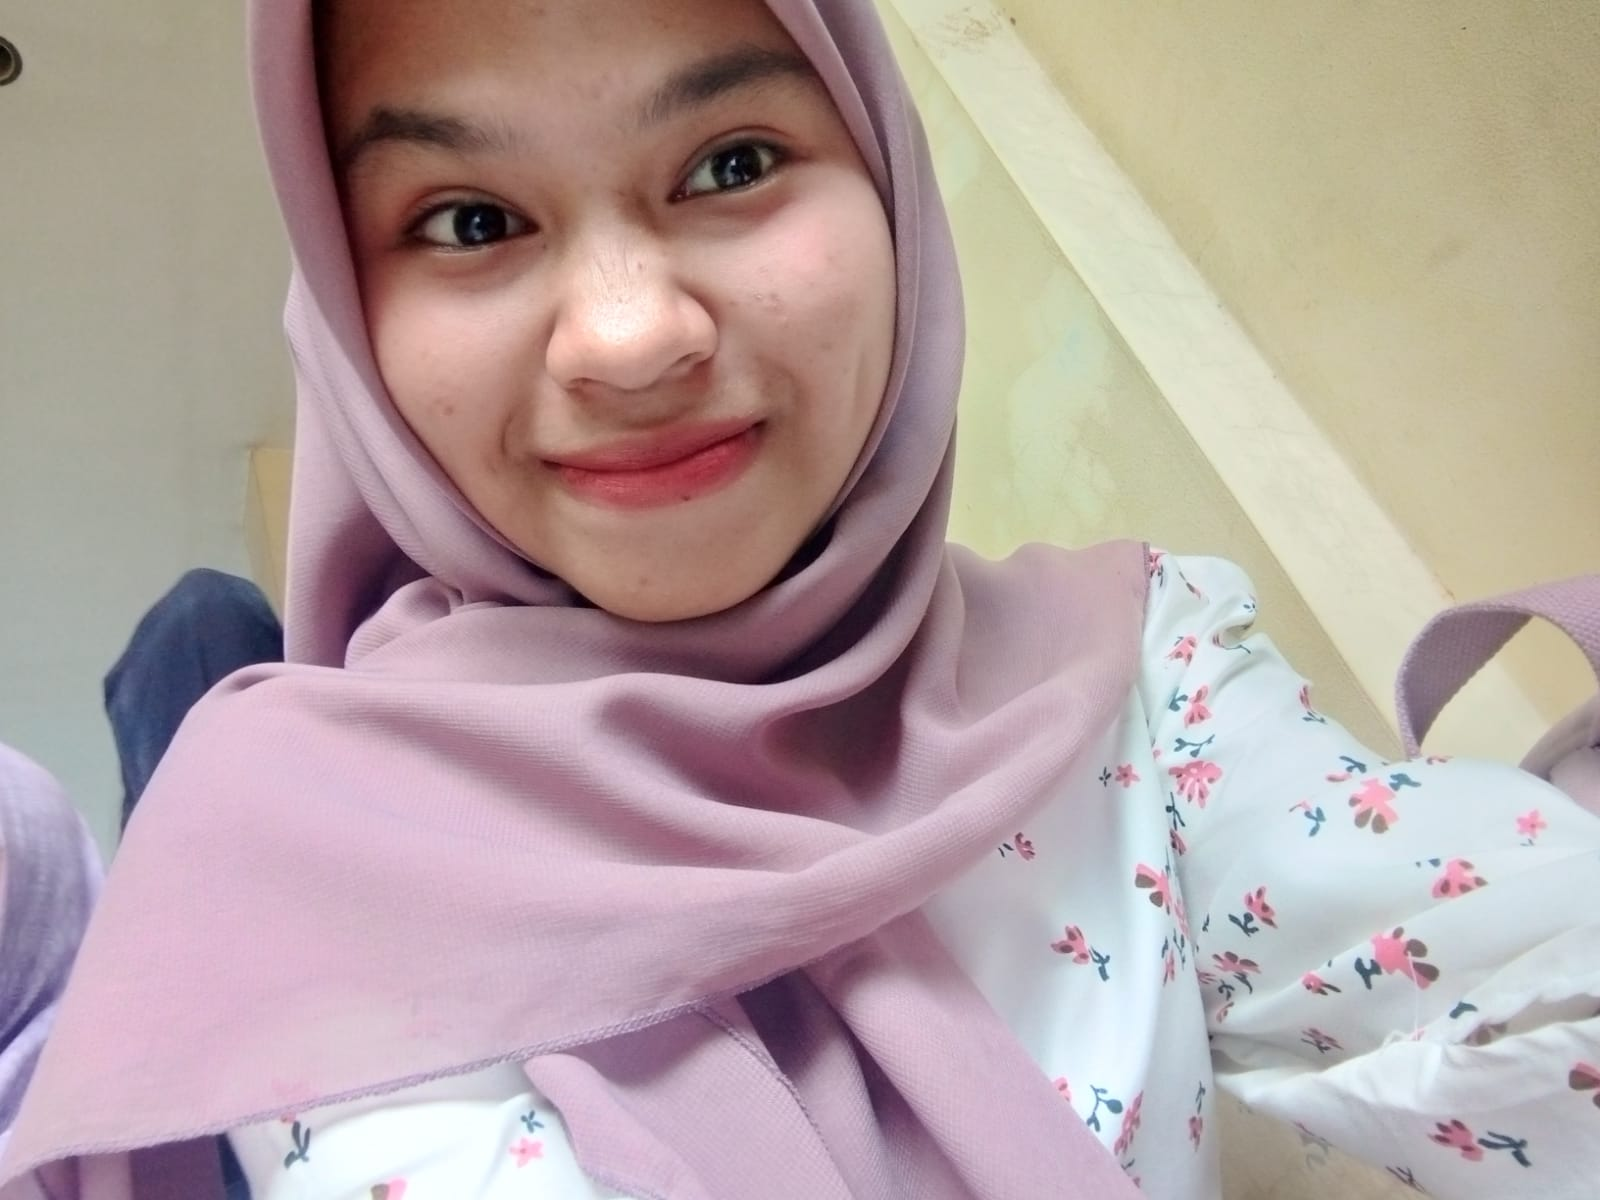
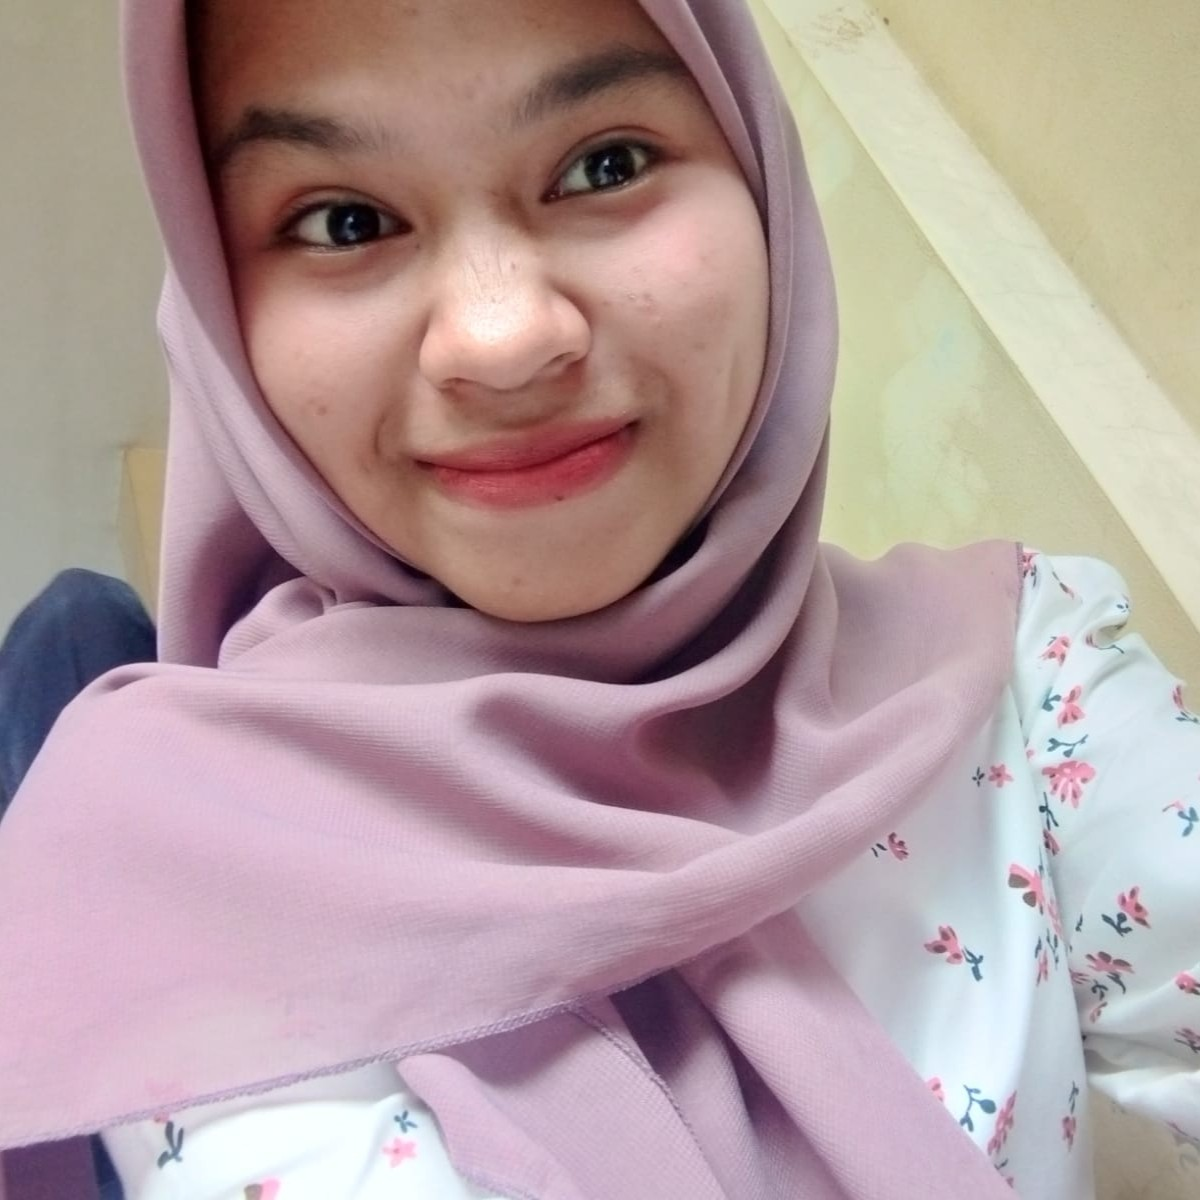
edit foto tim

diff --git a/resources/views/welcome.blade.php b/resources/views/welcome.blade.php
@@ -82,7 +82,7 @@
                 <div class="card h-100 shadow-sm border-0 rounded-4 p-3 card-hover">
                     <img src="assets\images\rojali.jpg" class="rounded-circle mb-3 mx-auto shadow-sm" alt="Rojali" width="180" height="180">
                     <h5 class="fw-bold mb-1">Muhamad Rojali</h5>
-                    <p class="text-muted small mb-3">Ketua</p>
+                    <p class="text-muted small mb-3">Project Manager</p>
                     <div class="d-flex justify-content-center gap-3">
                         <a href="https://github.com/muhamadr03" target="_blank" class="text-dark social-icon-hover"><i class="bi bi-github fs-4"></i></a>
                         <a href="https://www.instagram.com/mhmdrojali_27?igsh=azBtaWYxNXdxOWZ3" target="_blank" class="text-danger social-icon-hover"><i class="bi bi-instagram fs-4"></i></a>
@@ -96,7 +96,7 @@
                 <div class="card h-100 shadow-sm border-0 rounded-4 p-3 card-hover">
                     <img src="assets\images\bili.jpg" class="rounded-circle mb-3 mx-auto shadow-sm" alt="Bili" width="180" height="180">
                     <h5 class="fw-bold mb-1">Muhamad Bili Gunawan</h5>
-                    <p class="text-muted small mb-3">Anggota</p>
+                    <p class="text-muted small mb-3">Front-End Developer</p>
                     <div class="d-flex justify-content-center gap-3">
                         <a href="https://github.com/biligunawan" target="_blank" class="text-dark social-icon-hover"><i class="bi bi-github fs-4"></i></a>
                         <a href="https://www.instagram.com/billygnwns?igsh=MTZwNDI4ZjRzY3o1Ng==" target="_blank" class="text-danger social-icon-hover"><i class="bi bi-instagram fs-4"></i></a>
@@ -110,7 +110,7 @@
                 <div class="card h-100 shadow-sm border-0 rounded-4 p-3 card-hover">
                     <img src="assets\images\linda.jpg" class="rounded-circle mb-3 mx-auto shadow-sm" alt="Linda" width="180" height="180">
                     <h5 class="fw-bold mb-1">Linda Agistina Handani</h5>
-                    <p class="text-muted small mb-3">Anggota</p>
+                    <p class="text-muted small mb-3">UI/UX Designer</p>
                     <div class="d-flex justify-content-center gap-3">
                         <a href="https://github.com/Lindaagstna" target="_blank" class="text-dark social-icon-hover"><i class="bi bi-github fs-4"></i></a>
                         <a href="https://www.instagram.com/lindaagstna11/" target="_blank" class="text-danger social-icon-hover"><i class="bi bi-instagram fs-4"></i></a>
@@ -122,12 +122,12 @@
             {{-- Anggota 4 --}}
             <div class="col-md-3 col-sm-6 text-center">
                 <div class="card h-100 shadow-sm border-0 rounded-4 p-3 card-hover">
-                    <img src="assets\images\sipa.jpg" class="rounded-circle mb-3 mx-auto shadow-sm" alt="Shifa" width="180" height="180">
+                    <img src="assets\images\shifa.jpg" class="rounded-circle mb-3 mx-auto shadow-sm" alt="Shifa" width="180" height="180">
                     <h5 class="fw-bold mb-1">Shifa Nur Fauziyyah</h5>
-                    <p class="text-muted small mb-3">Anggota</p>
+                    <p class="text-muted small mb-3">Database Administrator</p>
                     <div class="d-flex justify-content-center gap-3">
                         <a href="https://github.com/ShifaFzyh" target="_blank" class="text-dark social-icon-hover"><i class="bi bi-github fs-4"></i></a>
-                        <a href="www.instagram.com/shaa.nur_05" target="_blank" class="text-danger social-icon-hover"><i class="bi bi-instagram fs-4"></i></a>
+                        <a href="https://www.instagram.com/shaa.nur_05" target="_blank" class="text-danger social-icon-hover"><i class="bi bi-instagram fs-4"></i></a>
                         <a href="https://www.linkedin.com/in/shifa-nur-fauziyyah-977a5532b/" target="_blank" class="text-primary social-icon-hover"><i class="bi bi-linkedin fs-4"></i></a>
                     </div>
                 </div>
@@ -138,7 +138,7 @@
                 <div class="card h-100 shadow-sm border-0 rounded-4 p-3 card-hover">
                     <img src="assets\images\rija.jpg" class="rounded-circle mb-3 mx-auto shadow-sm" alt="Riza" width="180" height="180">
                     <h5 class="fw-bold mb-1">Riza Alfira Nasution</h5>
-                    <p class="text-muted small mb-3">Anggota</p>
+                    <p class="text-muted small mb-3">Content Creator</p>
                     <div class="d-flex justify-content-center gap-3">
                         <a href="https://github.com/rizalfiraa" target="_blank" class="text-dark social-icon-hover"><i class="bi bi-github fs-4"></i></a>
                         <a href="https://www.instagram.com/riizalfiranst?igsh=aGFkbjgxbXdweG56" target="_blank" class="text-danger social-icon-hover"><i class="bi bi-instagram fs-4"></i></a>

diff --git a/resources/views/layouts/app_public.blade.php b/resources/views/layouts/app_public.blade.php
@@ -3,7 +3,7 @@
 <head>
     <meta charset="UTF-8">
     <meta name="viewport" content="width=device-width, initial-scale=1.0">
-    <title>Direktori Fasilitas Kesehatan</title>
+    <title>Sehatku</title>
     <link rel="preconnect" href="https://fonts.googleapis.com">
     <link rel="preconnect" href="https://fonts.gstatic.com" crossorigin>
     <link href="https://fonts.googleapis.com/css2?family=Poppins:wght@300;400;500;600;700&display=swap" rel="stylesheet">
@@ -33,7 +33,7 @@
         <div class="container text-center">
             <div class="row">
                 <div class="col-md-6 mb-3 mb-md-0">
-                    <h5 class="fw-bold text-primary">Direktori Faskes</h5>
+                    <h5 class="fw-bold text-primary">Faskes Sehatku</h5>
                     <p class="text-secondary small">Temukan fasilitas kesehatan dengan mudah.</p>
                 </div>
                 <div class="col-md-6">
